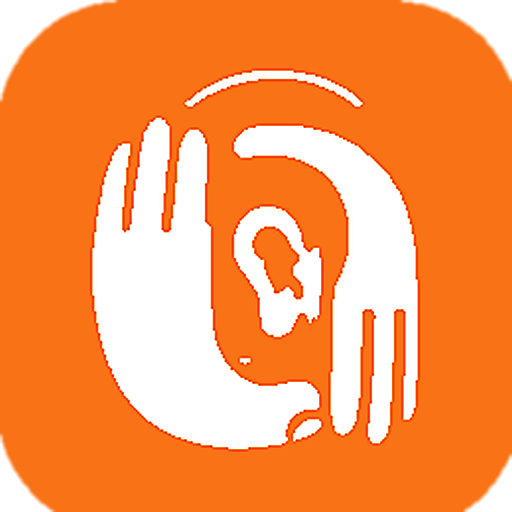
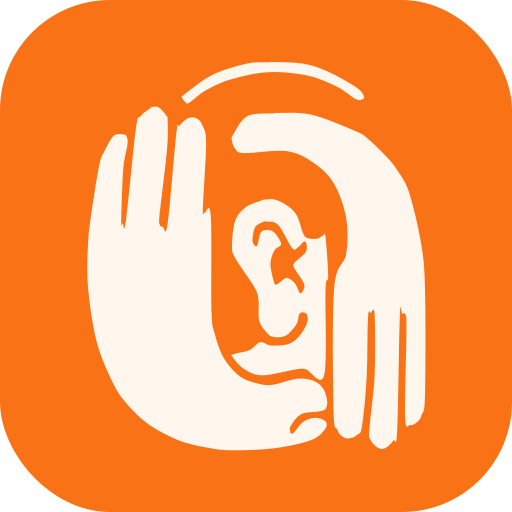
feat: isotipo Oído vectorial (SVG), reemplaza el placeholder rasterizado (#132)
El isotipo (mano ahuecada sobre la oreja) era un raster placeholder
extraído del mockup del diseñador. Ahora usa el SVG vectorial final del
diseñador: un solo path trazado a 6x con fill-rule="evenodd", reusado
con distinto recorte/escala/color en cada asset (logo.svg, logo-mark.svg,
logo-maskable.svg, logo-figure.svg/-warm.svg para la máscara CSS de
LogoGlyph, logo-badge.svg y oido-isotipo.svg suelto).

Logo.tsx apunta LogoMark y la máscara de LogoGlyph a los SVG en vez del
PNG viejo. Los raster que pide el manifest/apple-touch-icon/service
worker (icon-192/512, maskable-512, apple-icon, badge-96, favicon.ico)
se regeneraron desde estos SVG con cairosvg, mismos tamaños que antes.

Claude-Session: https://claude.ai/code/session_01PEcT4a33sqPwfRdcApt7vW

diff --git a/frontend/components/Logo.tsx b/frontend/components/Logo.tsx
@@ -1,17 +1,18 @@
 /**
  * Marca Oído: mano ahuecada sobre la oreja (gesto de "¡oído!, va la orden"),
- * placeholder rasterizado a partir del ícono real del diseñador — no es el
- * SVG vectorial final (ver docs/BRIEF_IDENTIDAD_VISUAL.md y el pendiente de
- * reemplazo por el export vectorial del diseñador). El asset fuente nunca
- * se usa a más de 48px en el código, así que el raster no pierde nitidez.
+ * SVG vectorial final del diseñador (reemplazó el placeholder rasterizado,
+ * ver docs/BRIEF_IDENTIDAD_VISUAL.md). Un solo `path` vectorizado (contornos
+ * trazados a 6×, `fill-rule="evenodd"`) reusado en cada asset con distinto
+ * recorte/escala/color — detalle en `frontend/public/oido-isotipo.svg` y
+ * hermanos.
  *
  * `LogoGlyph` es sólo el trazo (mano + oreja), sin tile de fondo — se tiñe
- * del color pedido vía CSS mask (`logo-figure.png` sólo aporta la silueta
- * en su canal alfa). Lo reusa SplashScreen/EmptyState sobre superficie
- * neutra. `LogoMark` agrega el tile naranja ya horneado (uso estándar:
- * Navbar, favicon/app icons). `Logo` agrega el wordmark y es el default
- * export que ya consumen Navbar, login/register/recuperar/restablecer y la
- * landing.
+ * del color pedido vía CSS mask (`logo-figure.svg` sólo aporta la silueta
+ * en su canal alfa, el fill del SVG es irrelevante para una máscara). Lo
+ * reusa SplashScreen/EmptyState sobre superficie neutra. `LogoMark` agrega
+ * el tile naranja ya horneado (uso estándar: Navbar, favicon/app icons).
+ * `Logo` agrega el wordmark y es el default export que ya consumen Navbar,
+ * login/register/recuperar/restablecer y la landing.
  */
 export function LogoGlyph({ size = 28, color = "#fff" }: { size?: number; color?: string }) {
   return (
@@ -23,8 +24,8 @@ export function LogoGlyph({ size = 28, color = "#fff" }: { size?: number; color?
         width: size,
         height: size,
         backgroundColor: color,
-        WebkitMaskImage: "url(/logo-figure.png)",
-        maskImage: "url(/logo-figure.png)",
+        WebkitMaskImage: "url(/logo-figure.svg)",
+        maskImage: "url(/logo-figure.svg)",
         WebkitMaskSize: "contain",
         maskSize: "contain",
         WebkitMaskRepeat: "no-repeat",
@@ -38,7 +39,7 @@ export function LogoGlyph({ size = 28, color = "#fff" }: { size?: number; color?
 
 export function LogoMark({ size = 28 }: { size?: number }) {
   // eslint-disable-next-line @next/next/no-img-element -- ícono chico (≤48px), no amerita next/image
-  return <img src="/logo-mark.png" width={size} height={size} alt="Oído" />;
+  return <img src="/logo-mark.svg" width={size} height={size} alt="Oído" />;
 }
 
 export default function Logo({
